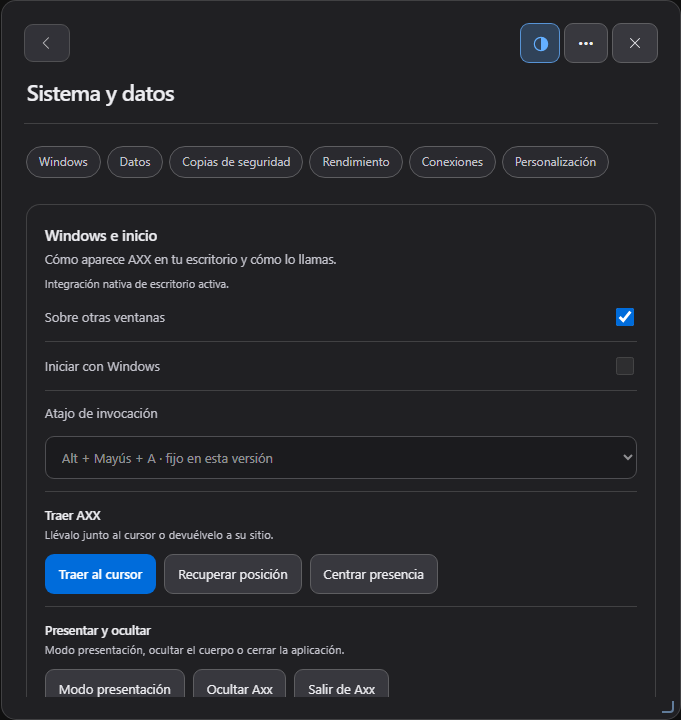
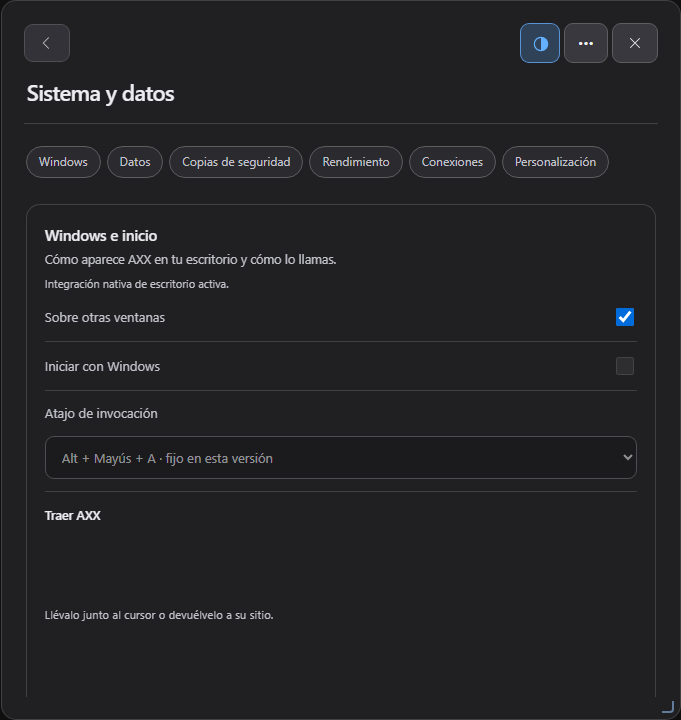
docs(phase-7): regression results, Codex handoff and final checkpoint; rows wrap by panel width

Changed region(s): [[0.0617, 0.7333, 0.6476, 0.9778]]

diff --git a/1.AXX/scripts/phase7-ui.css b/1.AXX/scripts/phase7-ui.css
@@ -29,7 +29,8 @@ body.native.axx-resident[data-ui-theme] #panel:not([data-view=chat]) :is(.p7-mor
 /* The card keeps its own content; the fold already provides the frame and the title. */
 body.native.axx-resident[data-ui-theme] #panel:not([data-view=chat]) .p7-fold>:is(.setup-card,section){border:0!important;background:transparent!important;padding:0!important;margin:0!important}
 body.native.axx-resident[data-ui-theme] #panel:not([data-view=chat]) .p7-row.p7-stack{flex-direction:column;align-items:stretch;gap:10px}body.native.axx-resident[data-ui-theme] #panel:not([data-view=chat]) .p7-row.p7-stack .p7-actions{max-width:none;justify-content:flex-start}
-@media(max-width:520px){body.native.axx-resident[data-ui-theme] #panel:not([data-view=chat]) .p7-row{flex-direction:column;align-items:stretch}body.native.axx-resident[data-ui-theme] #panel:not([data-view=chat]) .p7-actions{max-width:none;justify-content:flex-start}}
+/* The panel is resizable: rows wrap by their own width, not by the screen. */
+body.native.axx-resident[data-ui-theme] #panel:not([data-view=chat]) .p7-row{flex-wrap:wrap}body.native.axx-resident[data-ui-theme] #panel:not([data-view=chat]) .p7-copy{flex:1 1 200px}body.native.axx-resident[data-ui-theme] #panel:not([data-view=chat]) .p7-actions{flex:0 1 auto}
 
 /* ── IA y proveedores ──────────────────────────────────────────────────────────────── */
 /* One status card replaces the per-tab «Modelo en uso» strip; its text is mirrored there. */

diff --git a/docs/phase-7/SESSION-CHECKPOINT.md b/docs/phase-7/SESSION-CHECKPOINT.md
@@ -4,53 +4,54 @@
 
 ## Estado Git
 - Worktree: `C:\Users\luigi\Desktop\axx2\.claude\worktrees\axx-phase-7-ui-09978b` (independiente; no es el árbol de Codex).
-- Rama: `claude/axx-phase-7-ui` (creada en esta sesión; la rama `claude/axx-phase-7-ui-09978b` que traía el worktree queda intacta en `dfe3d5a`).
-- Commit base: `a750362` (informes Fase 6). Código validado Fase 6: `4f4e18b`. `4f4e18b` es ancestro de `a750362` (verificado). La diferencia entre ambos es solo `docs/phase-6/*` y el fixture `1.AXX/scripts/test-providers.cjs`.
-- `main` = `dfe3d5a`, 12 commits por detrás de `a750362`, 0 por delante. No se ha tocado.
-- HEAD verificado: ver «Incrementos» (último commit listado).
+- Rama: `claude/axx-phase-7-ui`. La rama `claude/axx-phase-7-ui-09978b` con la que nació el worktree sigue intacta en `dfe3d5a`.
+- Commit base: `a750362` (informes Fase 6). Código validado Fase 6: `4f4e18b`, ancestro de `a750362` (verificado; la diferencia es `docs/phase-6/*` y el fixture de `test-providers.cjs`).
+- `main` = `dfe3d5a` (12 commits por detrás de la base). No se ha tocado. Sin push, sin publicación, sin instalación.
+- HEAD: el último commit de `git log --oneline a750362..HEAD`. Debe haber 5 o más commits de la fase y el árbol limpio (salvo `build/`, ignorado).
+- Los commits no llevan trailer `Co-authored-by` (regla de la skill ponytail del proyecto); se retiró de los dos primeros con `git filter-branch` antes de cualquier push.
 
 ## Objetivo
-Reorganizar el INTERIOR de Sistema y datos, IA y proveedores y Personalizar AXX; conservar el tema claro, corregir controles poco visibles y mejorar el oscuro. Sin push, sin publicar, sin instalar, sin tocar main, voz/ASR, Rust ni Python.
+Reorganizar el INTERIOR de Sistema y datos, IA y proveedores y Personalizar AXX; conservar el tema claro, corregir controles poco visibles y mejorar el oscuro.
 
-## Decisión de arquitectura (vigente)
-Las tres vistas se componen en ejecución: ~14 módulos inyectan tarjetas en `#view-settings`. Por eso la fase es una **capa de presentación nueva** que se carga la última y **mueve** nodos existentes (nunca los clona ni recrea), de modo que handlers, IDs y persistencia quedan intactos:
-- `1.AXX/scripts/phase7-ui.js` — reagrupa nodos.
-- `1.AXX/scripts/phase7-ui.css` — componentes y correcciones de tema.
-- `1.AXX/Axx.html` — solo dos etiquetas (`<link>` y `<script>`) al final. No se editan los estilos inline protegidos por `mobile/design-baseline.json`.
+## Arquitectura (vigente)
+Capa de presentación que se carga la última y **mueve** nodos existentes (nunca los clona): `1.AXX/scripts/phase7-ui.js` + `phase7-ui.css`. `Axx.html` cambia en 6 líneas (ver `CODEX-HANDOFF.md`). Ningún archivo protegido por `mobile/design-baseline.json` se edita.
 
 ## Incrementos
-| # | Incremento | Estado | Commit |
+| # | Incremento | Estado | Documento |
 |---|---|---|---|
-| 1 | Auditoría, inventario, baseline | en curso | — |
-| 2 | Sistema y datos | pendiente | — |
-| 3 | IA y proveedores | pendiente | — |
-| 4 | Personalizar AXX | pendiente | — |
-| 5 | Temas claro/oscuro | pendiente | — |
-| 6 | Pruebas, capturas, handoff | pendiente | — |
+| 1 | Auditoría, inventario, baseline | hecho | `UI-AUDIT.md` |
+| 2 | Sistema y datos | hecho | `SYSTEM-DATA-REDESIGN.md` |
+| 3 | IA y proveedores | hecho | `AI-PROVIDERS-REDESIGN.md` |
+| 4 | Personalizar AXX | hecho | `PERSONALIZATION-UNIFICATION.md` |
+| 5 | Temas claro/oscuro | hecho | `THEME-QA.md` |
+| 6 | Pruebas, capturas, handoff | hecho | `REGRESSION-RESULTS.md`, `CODEX-HANDOFF.md` |
 
-## Archivos modificados (acumulado)
-- nuevo `1.AXX/scripts/phase7-ui-harness.cjs` (arnés: inventario, capturas, pruebas)
-- nuevo `1.AXX/scripts/phase7-control-baseline.json` (IDs previos a la fase, por vista)
-- nuevo `docs/phase-7/*`
+## Archivos de la fase
+- nuevos: `1.AXX/scripts/phase7-ui.js`, `phase7-ui.css`, `phase7-ui-harness.cjs`, `phase7-control-baseline.json`, `docs/phase-7/*`
+- modificado: `1.AXX/Axx.html` (6 líneas)
 
 ## Últimas pruebas
-- Inventario en ejecución: 0 errores de página; IDs estables entre dos ejecuciones.
-- Baseline de suites existentes: lanzado en segundo plano (ver `REGRESSION-RESULTS.md` cuando termine).
+Ver `REGRESSION-RESULTS.md` (fecha 2026-11-11).
 
-## Errores pendientes
-- Ninguno propio. Fallos preexistentes: por clasificar con el baseline.
+## Pendiente / no verificado
+- Aceptación nativa en WebView2 empaquetado (no se construyó ni instaló candidato: restricción de la fase).
+- `scripts/test-installed-appearance.cjs` necesita una instalación; su contrato (tema visible en `settings`) se cubre con una prueba equivalente en el arnés.
+- Teléfono/Android: sin cambios en `mobile/`; solo se ejecutó el gate de compatibilidad.
+- El panel cambia de tamaño entre pestañas de Personalizar AXX (anchos por vista preexistentes).
 
 ## Dependencias de Codex
-- Ninguna bloqueante. No se toca `native-voice.js`, ASR, audio, micrófono, atajos ni contratos de voz. Ver `CODEX-HANDOFF.md`.
+Ninguna. Ver `CODEX-HANDOFF.md`.
 
 ## Próxima operación concreta
-Crear `phase7-ui.js`/`phase7-ui.css`, enlazarlos en `Axx.html` y agrupar `#view-settings`.
+Revisión del usuario. Después, y solo si lo pide: construir un candidato aislado (como en Fase 6) y ejecutar la aceptación nativa.
 
-## Comandos para retomar (desde la raíz del worktree)
+## Comandos para retomar (desde la raíz del worktree, Git Bash)
 ```bash
 git status -sb && git rev-parse --short HEAD && git log --oneline a750362..HEAD
-node 1.AXX/scripts/phase7-ui-harness.cjs test                 # contratos de la fase
-node 1.AXX/scripts/phase7-ui-harness.cjs shots docs/phase-7/screenshots after
-node 1.AXX/scripts/test-desktop-frontend.cjs                  # contrato de frontend existente
+export AXX_TEST_CHROMIUM="$LOCALAPPDATA/ms-playwright/chromium_headless_shell-1248/chrome-headless-shell-win64/chrome-headless-shell.exe"
+node 1.AXX/scripts/phase7-ui-harness.cjs test                                   # contratos de la fase
+node 1.AXX/scripts/phase7-ui-harness.cjs contrast                               # contraste claro/oscuro
+P7_EXTRA=voices,chat node 1.AXX/scripts/phase7-ui-harness.cjs shots docs/phase-7/screenshots after
+node 1.AXX/scripts/test-desktop-frontend.cjs && node 1.AXX/scripts/test-providers.cjs
 python scripts/validate_companion.py --output build/companion-validation.json   # gate PC/móvil
 ```

diff --git a/docs/phase-7/REGRESSION-RESULTS.md b/docs/phase-7/REGRESSION-RESULTS.md
@@ -1,0 +1,63 @@
+# Fase 7 · Resultados de regresión (Incremento 6)
+
+Fecha: 2026-11-11. Árbol: `claude/axx-phase-7-ui`. Baseline: checkout limpio de `a750362` ejecutado en la misma máquina, con el mismo navegador (`AXX_TEST_CHROMIUM` → `chromium_headless_shell-1248`).
+
+Alcance: pruebas de contrato en navegador con host nativo simulado y el gate de compatibilidad. **No** es aceptación nativa en Windows: no se construyó ni instaló ningún candidato (restricción de la fase).
+
+## Contratos de la fase
+`node 1.AXX/scripts/phase7-ui-harness.cjs test` → **todas pasan**.
+
+| Área | Comprobación |
+|---|---|
+| General | sin errores de página al arrancar ni tras interactuar |
+| General | cada id de control anterior a la fase existe exactamente una vez (`phase7-control-baseline.json`) |
+| General | en las 7 vistas ningún control queda inalcanzable (visible o dentro de un plegable que se puede abrir) |
+| Sistema y datos | orden de grupos; `clear-data` en fila destructiva; `import-all` marcado; `backup-all` en Copias |
+| Sistema y datos | `scrollIntoView` de una tarjeta abre su plegable; handlers existentes siguen disparando |
+| IA | la configuración sola nunca aparece como verificada; una prueba fallida mantiene «sin comprobar» |
+| IA | «Probar conexión» ejecuta la sonda del propietario; coste y capacidades visibles; cada opción muestra solo sus controles; FreeLLMAPI solo con su plataforma |
+| Personalizar | 5 pestañas con los controles de su propietario; flechas; nodo único del tema en ambas entradas; persistencia de tema, tipografía y tamaño de widget |
+| Teclado | Tab alcanza los controles y el anillo de foco es visible en claro y oscuro |
+| Diseño | sin scroll horizontal al ancho por defecto y con panel de 380 px (Sistema, IA, Interfaz, Personalidad, Sonidos) |
+
+`node 1.AXX/scripts/phase7-ui-harness.cjs contrast` → 0 fallos de texto y contorno en las 7 vistas de la fase, en claro y oscuro (detalle en `THEME-QA.md`).
+
+## Suites existentes: baseline frente a Fase 7
+| Suite | Baseline | Fase 7 | Nota |
+|---|---|---|---|
+| `test-desktop-frontend` | pasa | pasa | |
+| `test-anticipation` | pasa | pasa | |
+| `test-mobile-pairing` | pasa | pasa | |
+| `test-mission-attention-integration` | pasa | pasa | |
+| `test-document-provenance` | pasa | pasa | |
+| `test-chat-usability` | pasa | pasa | |
+| `test-sound-runtime` | pasa | pasa | |
+| `test-composer-tools` | pasa | pasa | |
+| `test-command-library` | pasa | pasa | |
+| `test-browser-runtime` | pasa | pasa | |
+| `test-computer-use` | pasa | pasa | falló durante el desarrollo (ver abajo) |
+| `test-quick-reply` | pasa | pasa | |
+| `test-tools-interaction` | **falla** L75 | **falla** L75 | preexistente: el catálogo muestra el rótulo «Chat» y la prueba espera texto vacío |
+| `test-providers` | **falla** L148 | **falla** L148 | preexistente (Fase 6): «La memoria de esta conversación cambió» |
+| `test-skills` | **falla** | **falla** | preexistente: necesita `dist/axx-backend.exe` |
+| `test-capability-workshop` | **falla** L16 | **falla** L16 | preexistente: timeout |
+| `test-goal-cycle` | **falla** L23 | **falla** L23 | preexistente: timeout |
+
+Ninguna suite cambia de resultado. Sin `AXX_TEST_CHROMIUM`, `test-providers` falla antes, al no encontrar el Chromium 1234 que tiene fijado: es un fallo de entorno, también preexistente.
+
+## Gate de compatibilidad PC/móvil
+`python scripts/validate_companion.py --output build/companion-validation.json` sobre el árbol final → **PASS** (contract 15, renderer_build, backend 112 con 1 omitida, browser 58, selector de archivos 8). El recibo queda en `build/` (ignorado por Git) y corresponde a este árbol; `release.py publish` no se ejecutó.
+
+La ejecución del gate sobre el baseline se hizo en paralelo con otras suites y dio 3 fallos de backend; no se repitió en solitario, así que no se usa como comparación.
+
+## Regresiones propias detectadas y corregidas durante la fase
+1. «Probar conexión» quedaba deshabilitado tras una sonda fallida (la acción de `providers.js` restauraba el estado que yo había fijado). Corregido: el botón ya no se deshabilita al delegar.
+2. La sonda real no se usaba si `providers.js` no había cargado aún las conexiones. Corregido: se pulsa antes su «Actualizar conexiones».
+3. `test-providers` L78: la tarjeta de estado empujaba el formulario bajo el pliegue. Corregido: al elegir una opción, sus controles suben al inicio.
+4. `test-computer-use` L66: el botón «Configurar Computer Use» quedaba dentro de un plegable cerrado. Corregido: una tarjeta con un solo control no se pliega.
+
+## No verificado
+- WebView2 empaquetado, DPI reales de Windows y atajos globales (requiere candidato instalado).
+- `scripts/test-installed-appearance.cjs` (necesita instalación). Su contrato se replica en el arnés.
+- Android/teléfono físico: `mobile/` no cambia.
+- El desbordamiento horizontal de 19 px de «Forma y materiales» es anterior a la fase y no se tocó.
